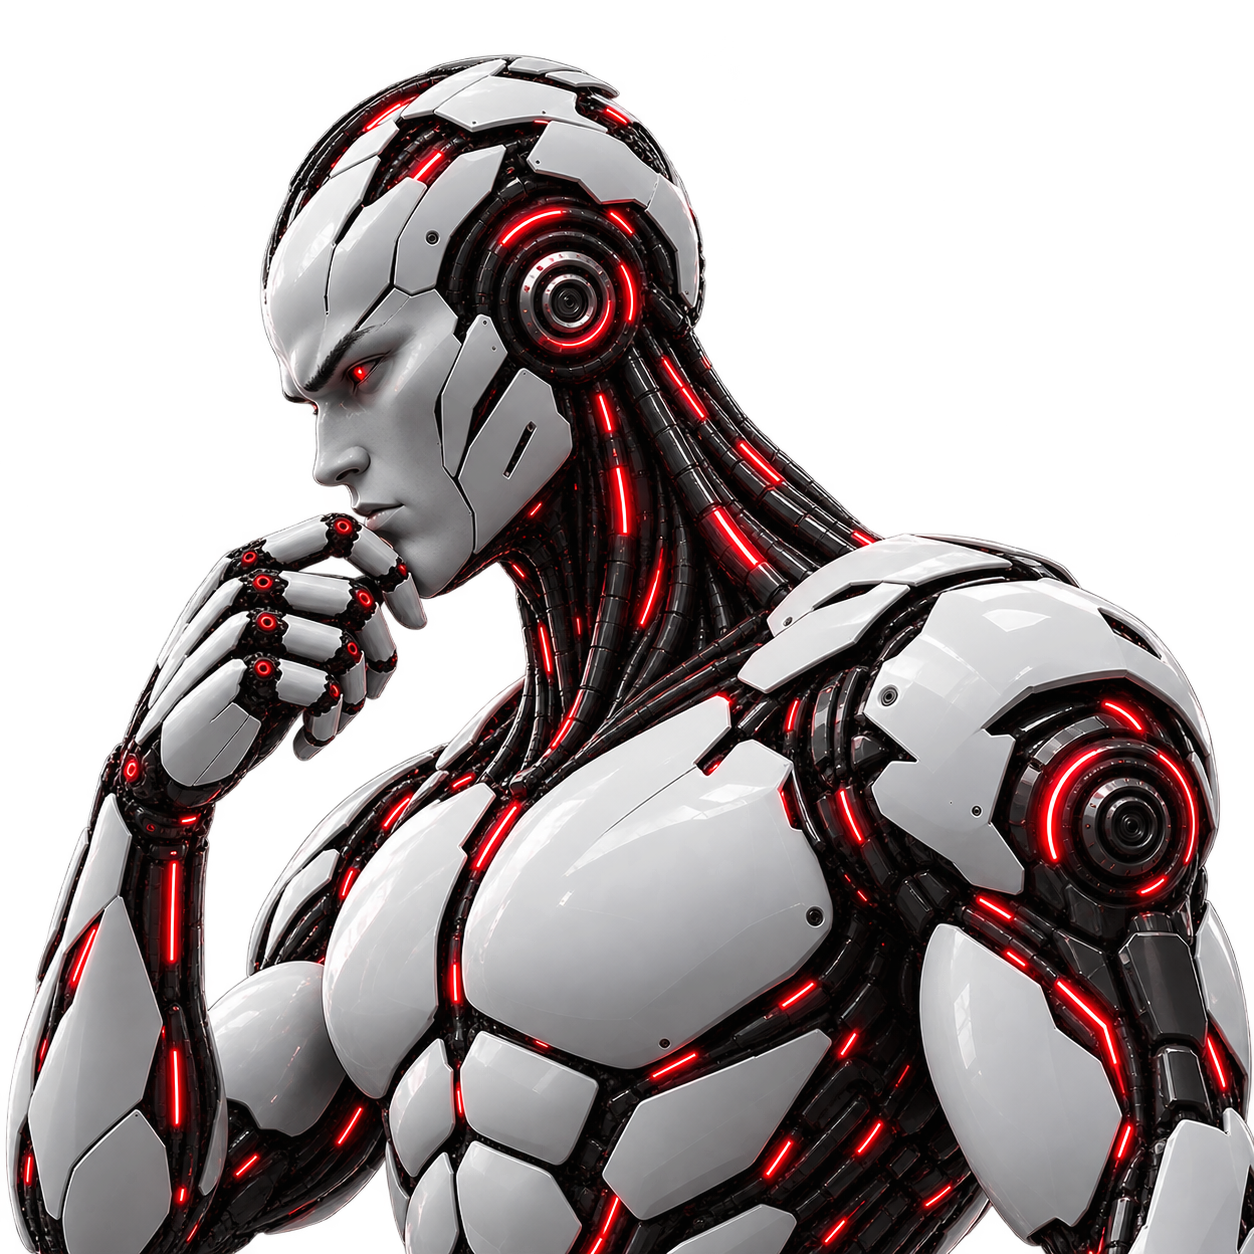
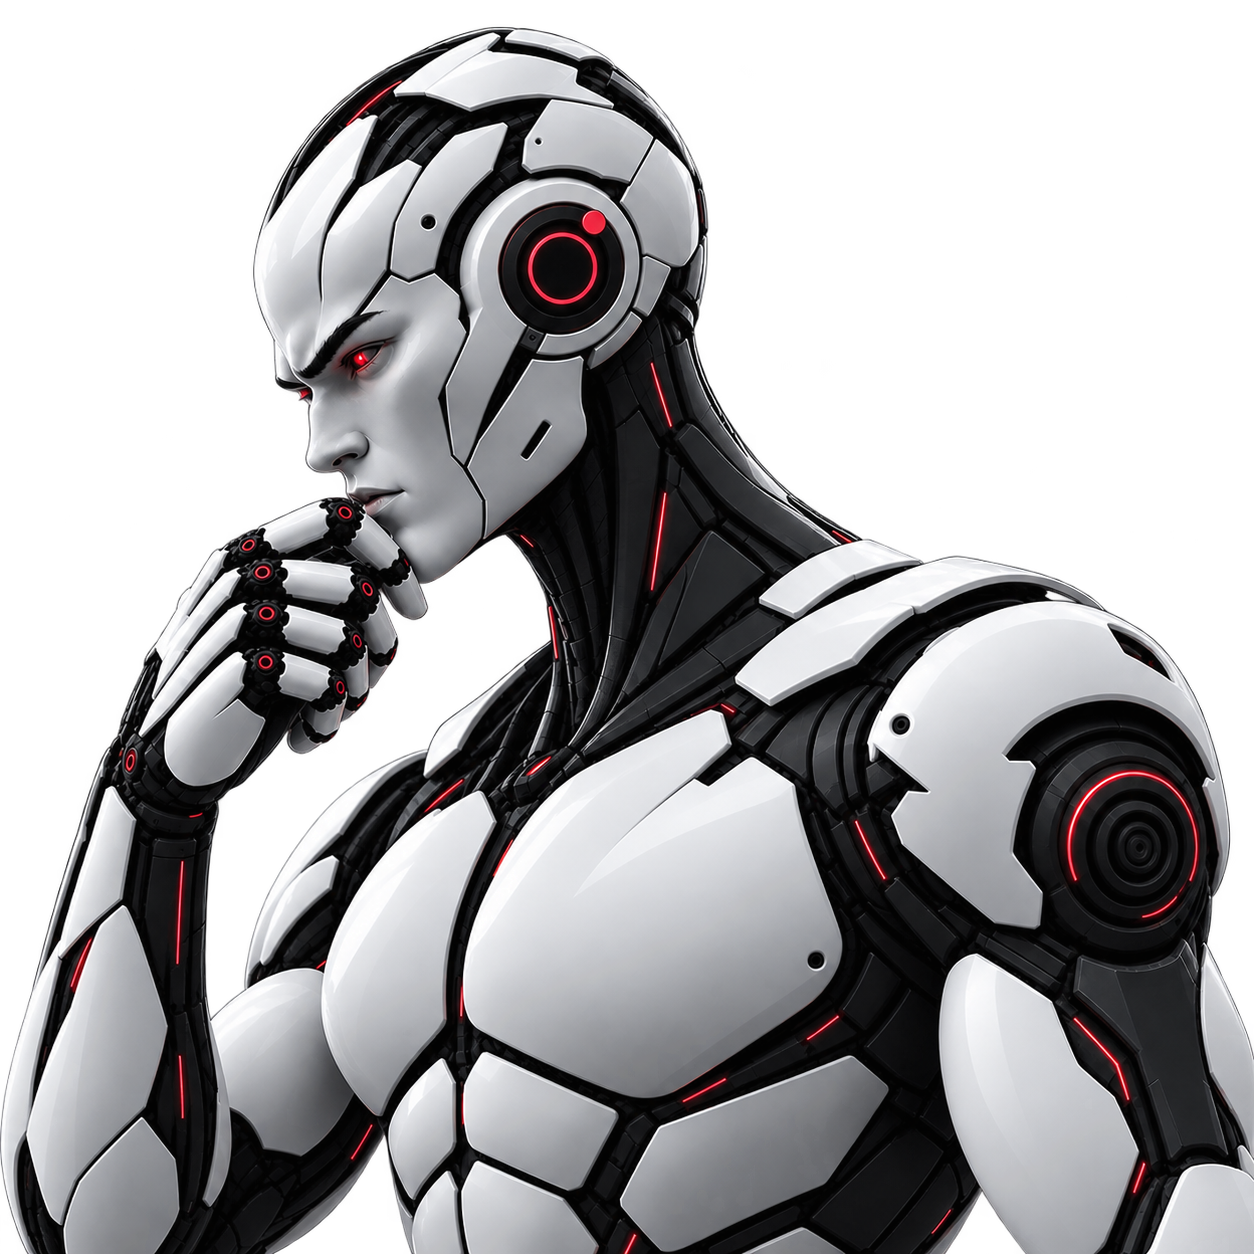
a

diff --git a/about.html b/about.html
@@ -57,7 +57,7 @@
   <section>
     <div class="container">
       <div class="row">
-        <div class="col-lg-8" data-aos="fade-up">
+        <div class="col-lg-12" data-aos="fade-up">
           <div class="eyebrow">Our story</div>
           <h2 class="section-title mt-2">Built by engineers, for dependable digital products</h2>
           <div class="section-bar"></div>
@@ -105,7 +105,7 @@
       <div class="row g-5 align-items-center">
         <div class="col-lg-5" data-aos="fade-right">
           <div class="eyebrow">What we stand for</div>
-          <h2 class="section-title mt-2">A small team with a focused mission</h2>
+          <h2 class="section-title mt-2">A team of professionals</h2>
           <div class="section-bar"></div>
           <p class="text-grey mb-0">OrbitWick brings design, engineering and security together so clients do not have to
             juggle multiple vendors. We keep our team lean, our communication clear and our work accountable.</p>

diff --git a/index.html b/index.html
@@ -46,7 +46,7 @@
   <header class="hero">
     <div class="container position-relative" style="z-index:1">
       <div class="row align-items-center g-4">
-        <div class="col-lg-7">
+        <div class="col-lg-6">
           <div class="eyebrow mb-3" data-aos="fade-up">Design · Development · Security</div>
           <h1 class="mb-4" data-aos="fade-up" data-aos-delay="100">We design, build and protect your <span
               style="color:#d9758a">digital presence.</span></h1>
@@ -58,7 +58,7 @@
             <a href="#contact" class="btn btn-outline-light-ow">Get a Free Consultant</a>
           </div>
         </div>
-        <div class="col-lg-5" data-aos="fade-left" data-aos-delay="200" data-aos-duration="1000">
+        <div class="col-lg-6" data-aos="fade-left" data-aos-delay="200" data-aos-duration="1000">
           <div class="hero-visual">
             <picture>
               <!-- <source srcset="hero.webp" type="image/webp"> -->

diff --git a/style.css b/style.css
@@ -393,6 +393,7 @@ section {
   background: var(--ow-black);
   color: #fff;
 }
+
 .contact-group {
   margin-bottom: 1.75rem;
 }
@@ -412,6 +413,7 @@ section {
   font-size: .95rem;
   overflow-wrap: anywhere;
 }
+
 /* Footer */
 footer {
   background: var(--ow-black);
@@ -619,13 +621,14 @@ body {
 }
 
 .ow-nav .navbar-brand img {
-  height: 70px;
+  margin:10px 0;
+  height: 60px;
   width: auto;
   display: block;
 }
 
 footer .brand img {
-  height: 80px;
+  height: 50px;
   width: auto;
   display: block;
 }
@@ -795,7 +798,17 @@ a.service-card {
   }
 }
 
+@media (max-width: 767px) {
+  .ow-nav .navbar-brand img {
+    height: 50px;
+  }
+
+}
+
 @media (max-width: 575px) {
+   .ow-nav .navbar-brand img {
+    height: 40px;
+  }
   .story-steps {
     grid-template-columns: 1fr;
   }
